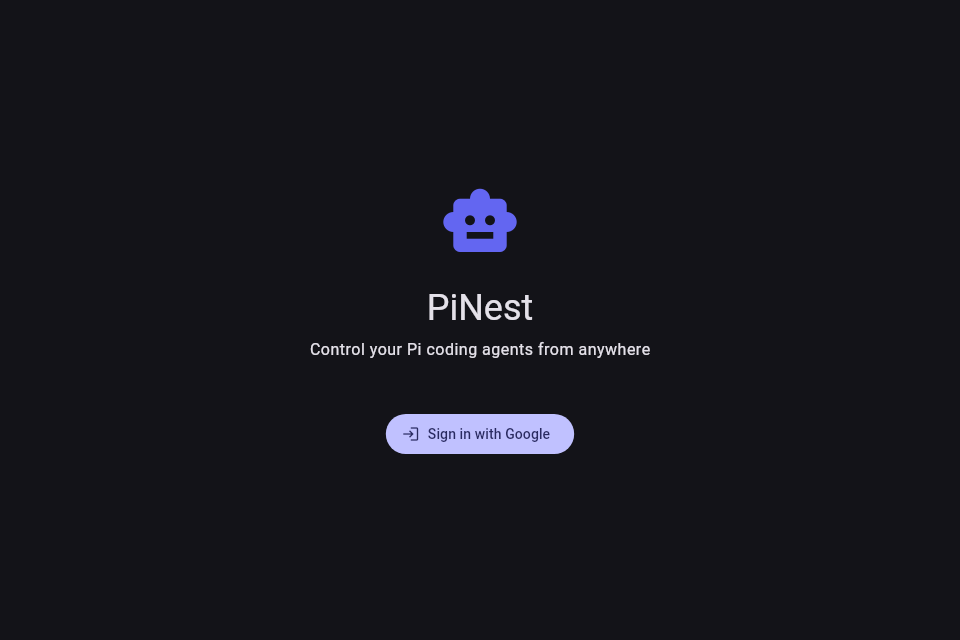
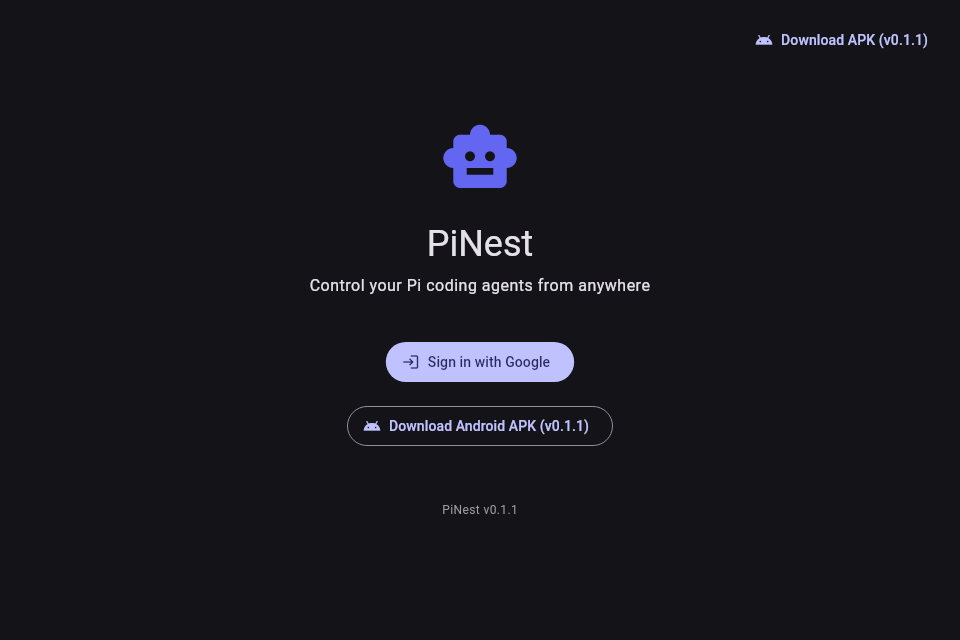
feat(auth): display version and APK download options on login screen

diff --git a/app/lib/screens/login_screen.dart b/app/lib/screens/login_screen.dart
@@ -1,6 +1,8 @@
 import 'package:flutter/material.dart';
 import 'package:provider/provider.dart';
 import '../services/auth_service.dart';
+import '../services/apk_release.dart';
+import '../services/link_bridge.dart';
 
 class LoginScreen extends StatelessWidget {
   const LoginScreen({super.key});
@@ -8,40 +10,93 @@ class LoginScreen extends StatelessWidget {
   @override
   Widget build(BuildContext context) {
     final auth = context.watch<AuthService>();
+    final theme = Theme.of(context);
+
     return Scaffold(
-      body: Center(
-        child: Column(
-          mainAxisAlignment: MainAxisAlignment.center,
+      body: SafeArea(
+        child: Stack(
           children: [
-            const Icon(Icons.smart_toy, size: 80, color: Color(0xFF6366F1)),
-            const SizedBox(height: 24),
-            Text('PiNest',
-                style: Theme.of(context).textTheme.displaySmall),
-            const SizedBox(height: 8),
-            Text('Control your Pi coding agents from anywhere',
-                style: Theme.of(context).textTheme.bodyLarge),
-            const SizedBox(height: 48),
-            if (auth.isLoading)
-              const CircularProgressIndicator()
-            else
-              FilledButton.icon(
-                onPressed: () => auth.signIn(),
-                icon: const Icon(Icons.login),
-                label: const Text('Sign in with Google'),
+            Positioned(
+              top: 16,
+              right: 16,
+              child: TextButton.icon(
+                onPressed: () => openExternalUrl(apkDownloadUrl),
+                icon: const Icon(Icons.android, size: 18),
+                label: Text('Download APK ($appVersionDisplay)'),
               ),
-            // A failed sign-in must SAY so — the button silently doing nothing
-            // is what a web-only popup call looked like on Android.
-            if (auth.error != null) ...[
-              const SizedBox(height: 16),
-              Padding(
-                padding: const EdgeInsets.symmetric(horizontal: 32),
-                child: Text(
-                  auth.error!,
-                  textAlign: TextAlign.center,
-                  style: TextStyle(color: Theme.of(context).colorScheme.error),
+            ),
+            Center(
+              child: SingleChildScrollView(
+                padding: const EdgeInsets.symmetric(
+                  horizontal: 24,
+                  vertical: 32,
+                ),
+                child: Column(
+                  mainAxisAlignment: MainAxisAlignment.center,
+                  children: [
+                    const Icon(
+                      Icons.smart_toy,
+                      size: 80,
+                      color: Color(0xFF6366F1),
+                    ),
+                    const SizedBox(height: 24),
+                    Text('PiNest', style: theme.textTheme.displaySmall),
+                    const SizedBox(height: 8),
+                    Text(
+                      'Control your Pi coding agents from anywhere',
+                      textAlign: TextAlign.center,
+                      style: theme.textTheme.bodyLarge,
+                    ),
+                    const SizedBox(height: 40),
+                    if (auth.isLoading)
+                      const CircularProgressIndicator()
+                    else ...[
+                      FilledButton.icon(
+                        onPressed: () => auth.signIn(),
+                        icon: const Icon(Icons.login),
+                        label: const Text('Sign in with Google'),
+                      ),
+                      const SizedBox(height: 16),
+                      OutlinedButton.icon(
+                        onPressed: () => openExternalUrl(apkDownloadUrl),
+                        icon: const Icon(Icons.android, size: 18),
+                        label: Text('Download Android APK ($appVersionDisplay)'),
+                      ),
+                    ],
+                    // A failed sign-in must SAY so — the button silently doing nothing
+                    // is what a web-only popup call looked like on Android.
+                    if (auth.error != null) ...[
+                      const SizedBox(height: 16),
+                      Padding(
+                        padding: const EdgeInsets.symmetric(horizontal: 32),
+                        child: Text(
+                          auth.error!,
+                          textAlign: TextAlign.center,
+                          style: TextStyle(color: theme.colorScheme.error),
+                        ),
+                      ),
+                    ],
+                    const SizedBox(height: 48),
+                    InkWell(
+                      onTap: () => openExternalUrl(apkReleasePageUrl),
+                      borderRadius: BorderRadius.circular(8),
+                      child: Padding(
+                        padding: const EdgeInsets.symmetric(
+                          horizontal: 8,
+                          vertical: 4,
+                        ),
+                        child: Text(
+                          'PiNest $appVersionDisplay',
+                          style: theme.textTheme.bodySmall?.copyWith(
+                            color: Colors.grey.shade500,
+                          ),
+                        ),
+                      ),
+                    ),
+                  ],
                 ),
               ),
-            ],
+            ),
           ],
         ),
       ),
